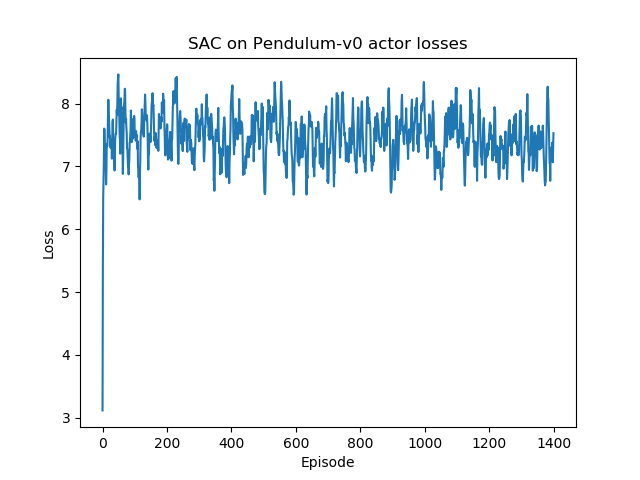
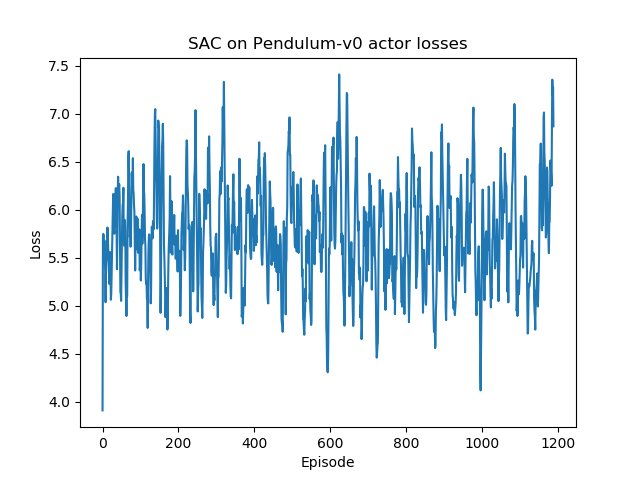
fixed error in the gaussian actor network, adding more results

diff --git a/sac.swift b/sac.swift
@@ -209,7 +209,7 @@ struct DiagonalGaussian {
     }
 
     func sample(means: Tensor<Float>, log_stds: Tensor<Float>) -> Tensor<Float> {
-        let rand_normal: Tensor<Float> = Tensor<Float>(randomNormal:means.shape, mean:Tensor<Float>(zeros: means.shape), standardDeviation:Tensor<Float>(zeros: log_stds.shape))
+        let rand_normal: Tensor<Float> = Tensor<Float>(randomNormal:means.shape, mean: Tensor<Float>(0.0), standardDeviation: Tensor<Float>(0.0))
         let result = means + rand_normal * exp(log_stds)
         return result
     }
@@ -245,23 +245,42 @@ struct GaussianActorNetwork: Layer {
     public var out_mean: Dense<Float>
     public var out_log_std: Dense<Float>
 
-    @noDerivative
-    public var dist: DiagonalGaussian
+    public var dim: Tensor<Float>
+
+    // @noDerivative
+    // public var dist: DiagonalGaussian
 
     @noDerivative
     public var max_action: Tensor<Float>
 
     init(state_size: Int, action_size: Int, hiddenLayerSizes: [Int] = [400, 300], maximum_action: Tensor<Float>) {
+        self.dim = Tensor<Float>(Float(action_size))
         self.layer_1 = Dense<Float>(inputSize: state_size, outputSize: hiddenLayerSizes[0], activation: relu)
         self.layer_2 = Dense<Float>(inputSize: hiddenLayerSizes[0], outputSize: hiddenLayerSizes[1], activation: relu)
         self.out_mean = Dense<Float>(inputSize: hiddenLayerSizes[1], outputSize: action_size, activation:identity)
         self.out_log_std = Dense<Float>(inputSize: hiddenLayerSizes[1], outputSize: action_size, activation:identity)
-        self.dist = DiagonalGaussian(dimension: action_size)
+        //self.dist = DiagonalGaussian(dimension: action_size)
         self.max_action = maximum_action
     }
 
+    @differentiable
+    func sample(means: Tensor<Float>, log_stds: Tensor<Float>) -> Tensor<Float> {
 
-    @differentiable(wrt: input)
+        let rand_normal: Tensor<Float> = Tensor<Float>(randomNormal:means.shape, mean: Tensor<Float>(0.0), standardDeviation: Tensor<Float>(1.0))
+        let result = means + rand_normal * exp(log_stds)
+        return result
+    }
+
+    @differentiable
+    func log_likelihood(x: Tensor<Float>, means: Tensor<Float>, log_stds: Tensor<Float>) -> Tensor<Float> {
+        let z_s: Tensor<Float> = (x - means) / exp(log_stds)
+        var result: Tensor<Float> = -log_stds.sum(alongAxes: -1) - (0.5*pow(z_s, 2)).sum(alongAxes: -1)
+        let pi: Float = 3.1415926354
+        result = result - 0.5 * self.dim * log(2 * Tensor<Float>(pi))
+        return result
+    }
+
+    @differentiable
     func callAsFunction(_ input: Input) -> Output {
         let h1 = layer_1(input)
         let h2 = layer_2(h1)
@@ -271,17 +290,22 @@ struct GaussianActorNetwork: Layer {
         //During training we sample from a Diagonal Gaussian.
         //During testing we can just take our mean as our raw actions
         let raw_actions_testing: Tensor<Float> = mu
-        let raw_actions_training: Tensor<Float> = self.dist.sample(means: mu, log_stds: clipped_log_std)
-        var logp_pis: Tensor<Float> = self.dist.log_likelihood(x: raw_actions_training, means: mu, log_stds: clipped_log_std)
-        var logp_pis_test: Tensor<Float> = self.dist.log_likelihood(x: raw_actions_testing, means: mu, log_stds: clipped_log_std)
+        let raw_actions_training: Tensor<Float> = self.sample(means:mu, log_stds: clipped_log_std)
+
+        //let raw_actions_training: Tensor<Float> = self.dist.sample(means: mu, log_stds: clipped_log_std)
+        //var logp_pis: Tensor<Float> = self.dist.log_likelihood(x: raw_actions_training, means: mu, log_stds: clipped_log_std)
+        //var logp_pis_test: Tensor<Float> = self.dist.log_likelihood(x: raw_actions_testing, means: mu, log_stds: clipped_log_std)
+
+        var logp_pis: Tensor<Float> = self.log_likelihood(x: raw_actions_training, means: mu, log_stds: clipped_log_std)
+        var logp_pis_test: Tensor<Float> = self.log_likelihood(x: raw_actions_testing, means: mu, log_stds: clipped_log_std)
 
         //apply a squashing function to the raw_actions
         let actions_training: Tensor<Float> = tanh(raw_actions_training)
         let actions_testing: Tensor<Float> = tanh(raw_actions_testing)
 
         //squash correction
-        let diff_train = (log(1.0 - pow(raw_actions_training, 2) + Tensor<Float>(eps))).sum(alongAxes: 1)
-        let diff_test = (log(1.0 - pow(raw_actions_testing, 2) + Tensor<Float>(eps))).sum(alongAxes: 1)
+        let diff_train = (log(1.0 - pow(actions_training, 2) + Tensor<Float>(eps))).sum(alongAxes: 1)
+        let diff_test = (log(1.0 - pow(actions_testing, 2) + Tensor<Float>(eps))).sum(alongAxes: 1)
         logp_pis = logp_pis - diff_train
         logp_pis_test = logp_pis -  diff_test
         return [actions_training * self.max_action, actions_testing * self.max_action, logp_pis, logp_pis_test, mu, log_std]
@@ -489,7 +513,7 @@ class SoftActorCritic {
       self.critic_v_optimizer = Adam(for: self.critic_v_network, learningRate: critic_v_lr)
       self.alpha_optimizer = Adam(for: self.alpha_net, learningRate:actor_lr)
 
-      self.replayBuffer = ReplayBuffer(capacity: 1200, combined: true)
+      self.replayBuffer = ReplayBuffer(capacity: 1100, combined: true)
   }
 
   func remember(state: Tensor<Float>, action: Tensor<Float>, reward: Tensor<Float>, next_state: Tensor<Float>, dones: Tensor<Bool>) {
@@ -503,10 +527,10 @@ class SoftActorCritic {
     let actions_training: Tensor<Float> = net_output[0]
     let actions_testing: Tensor<Float> = net_output[1]
     if training {
-      let noise = self.action_noise.getNoise()
-      let noisy_action = actions_training + noise
-      let action = noisy_action.clipped(min:-2.0, max:2.0)
-      //let action = actions_training
+      // let noise = self.action_noise.getNoise()
+      // let noisy_action = actions_training + noise
+      // let action = noisy_action.clipped(min:-2.0, max:2.0)
+      let action = actions_training
       return action[0]
     } else {
       return actions_testing[0]
